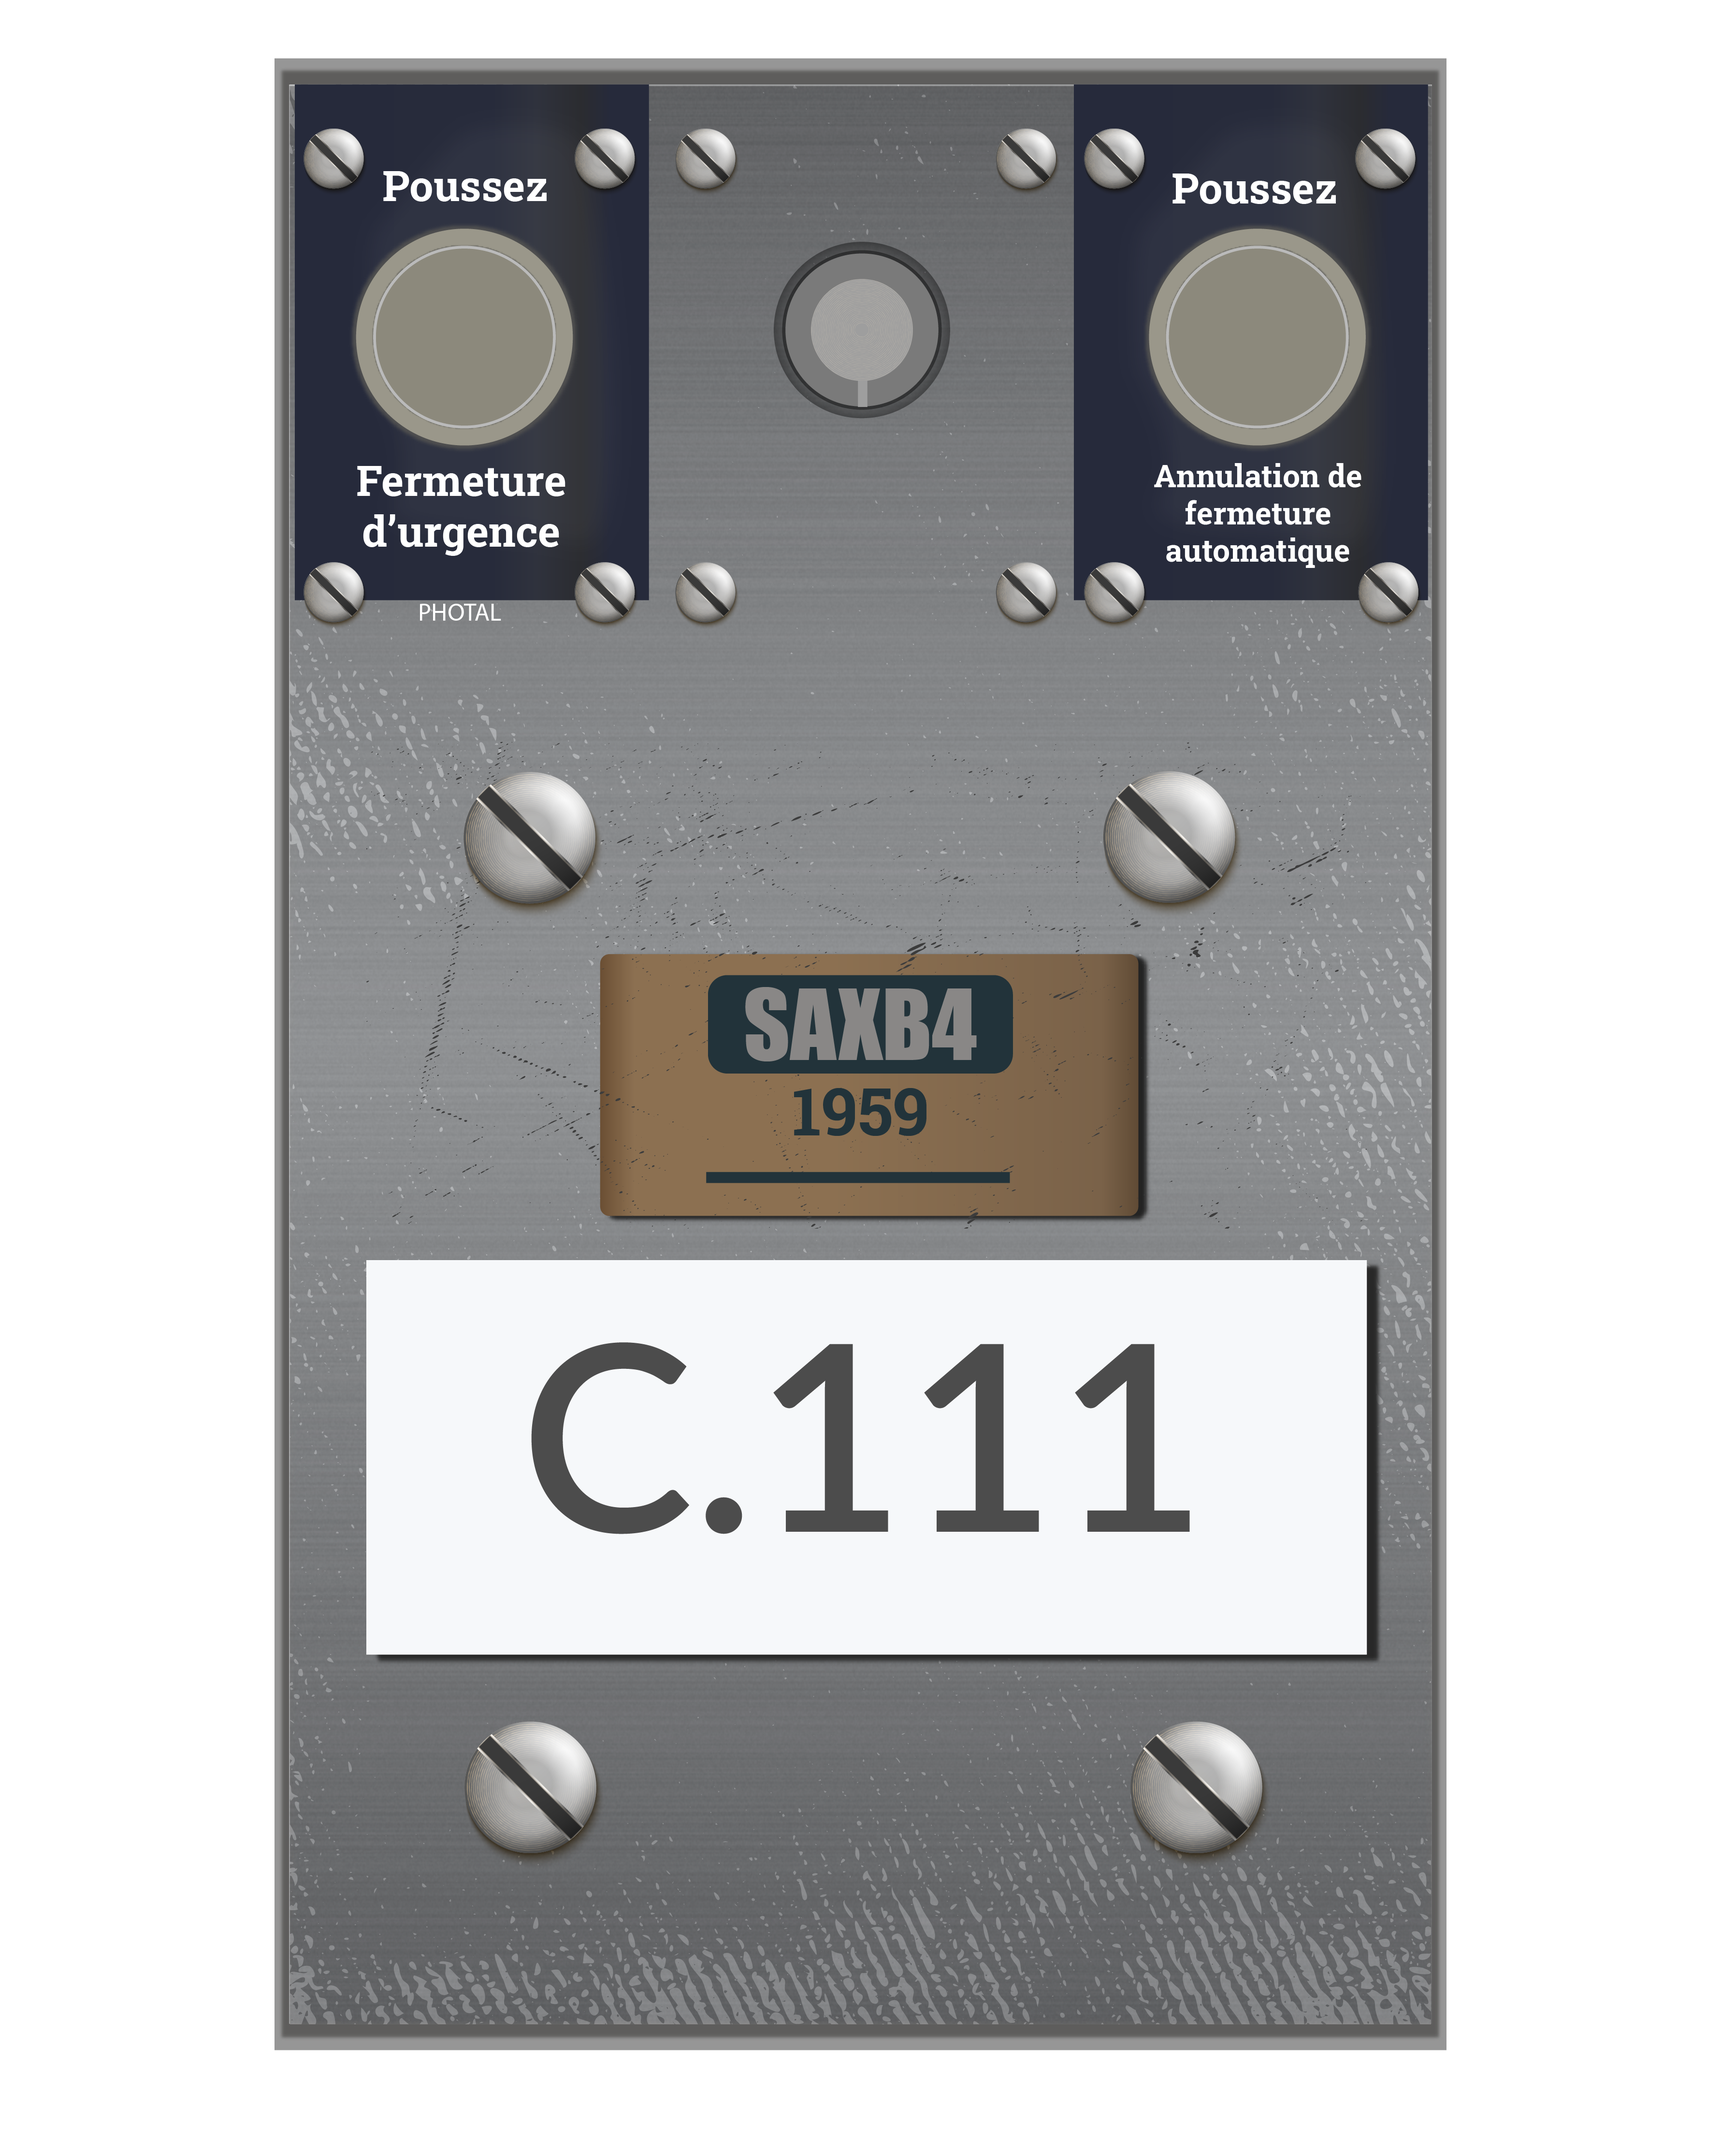
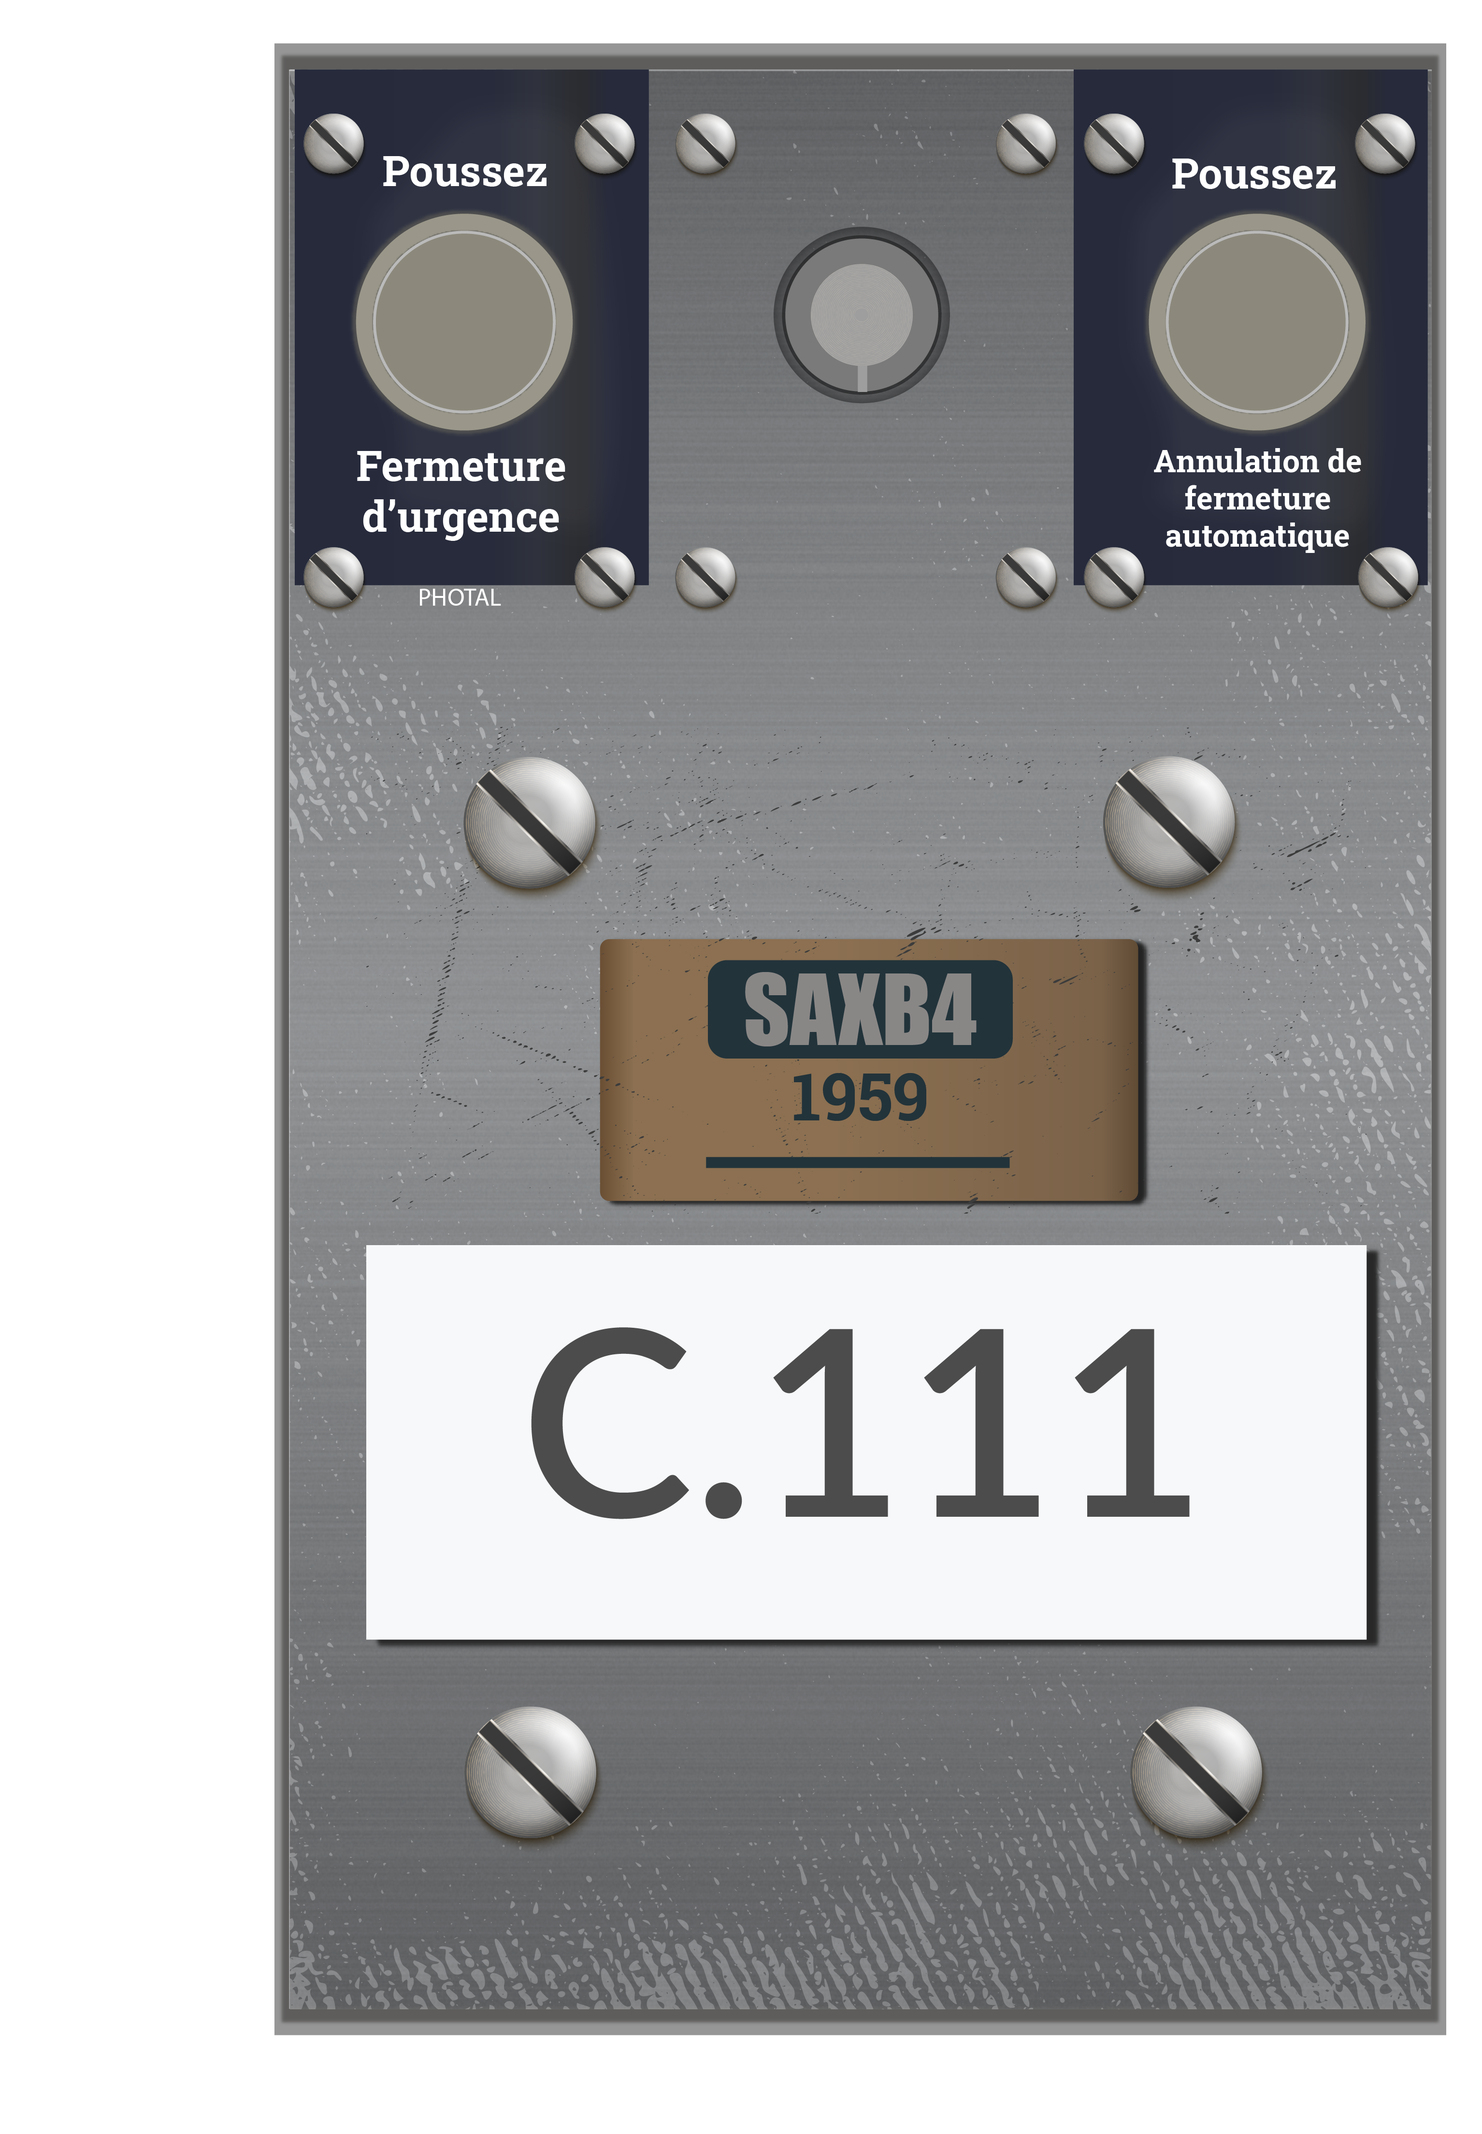
Emergency box update

diff --git a/root/src/Main.html b/root/src/Main.html
@@ -182,7 +182,7 @@
         
         <div id="emergencyContainer" class="container-fluid" style="display: block; position:absolute;">
             <div class="col">
-                <div id="emergencyControl" class="col-2" style="transform: translateY(-38%) translateX(-6%);">
+                <div id="emergencyControl" class="col-2" style="transform: translateY(-38%) translateX(-10%);">
                     <img class="img-fluid col-5 d-block" id="emergency-box" src="assets/PNG/Emergency_Box-01.png">
                 </div>
             </div>
